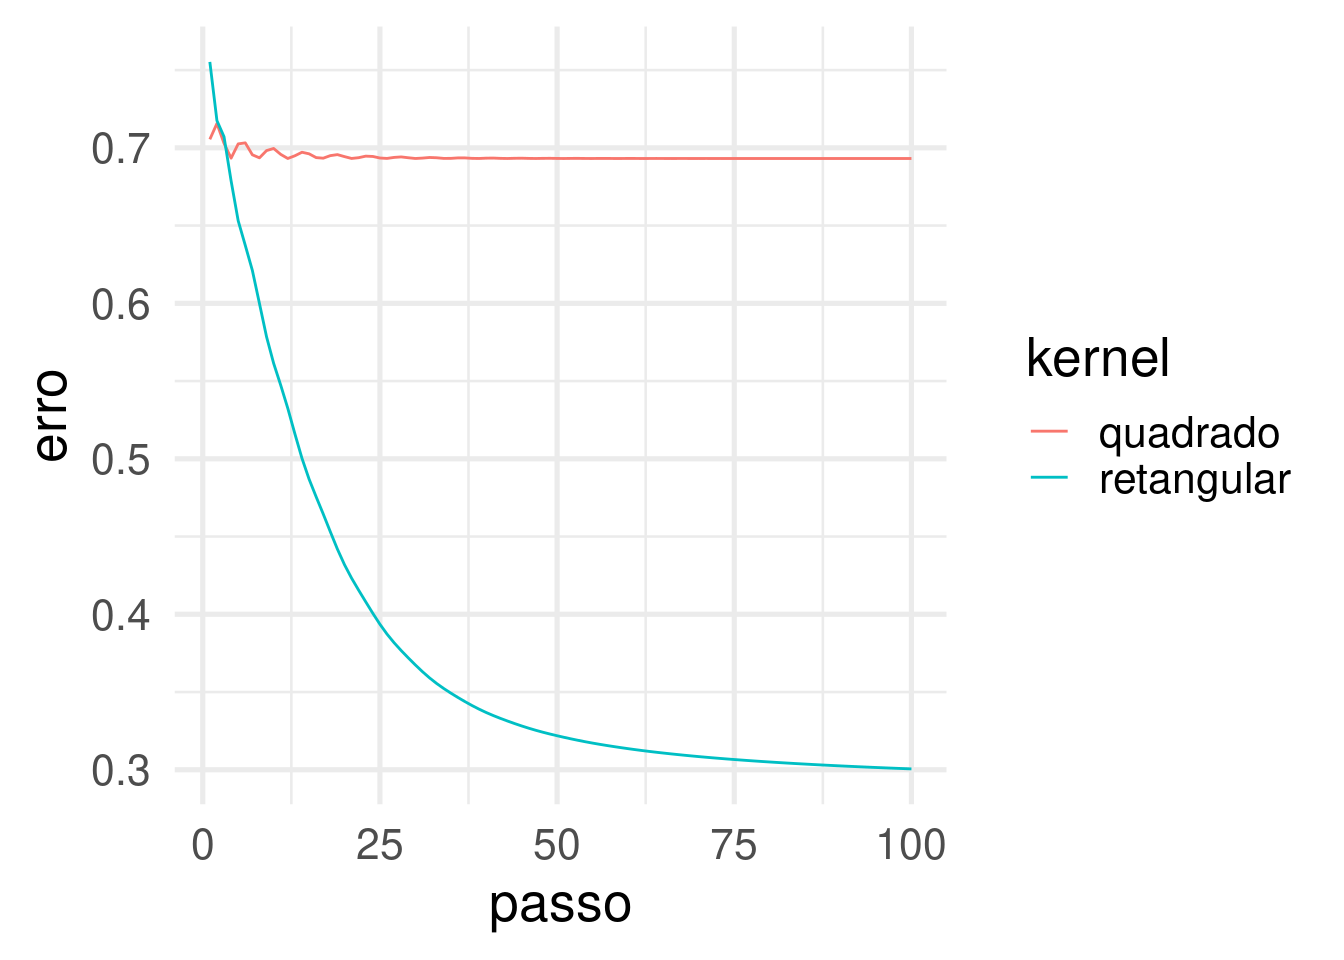
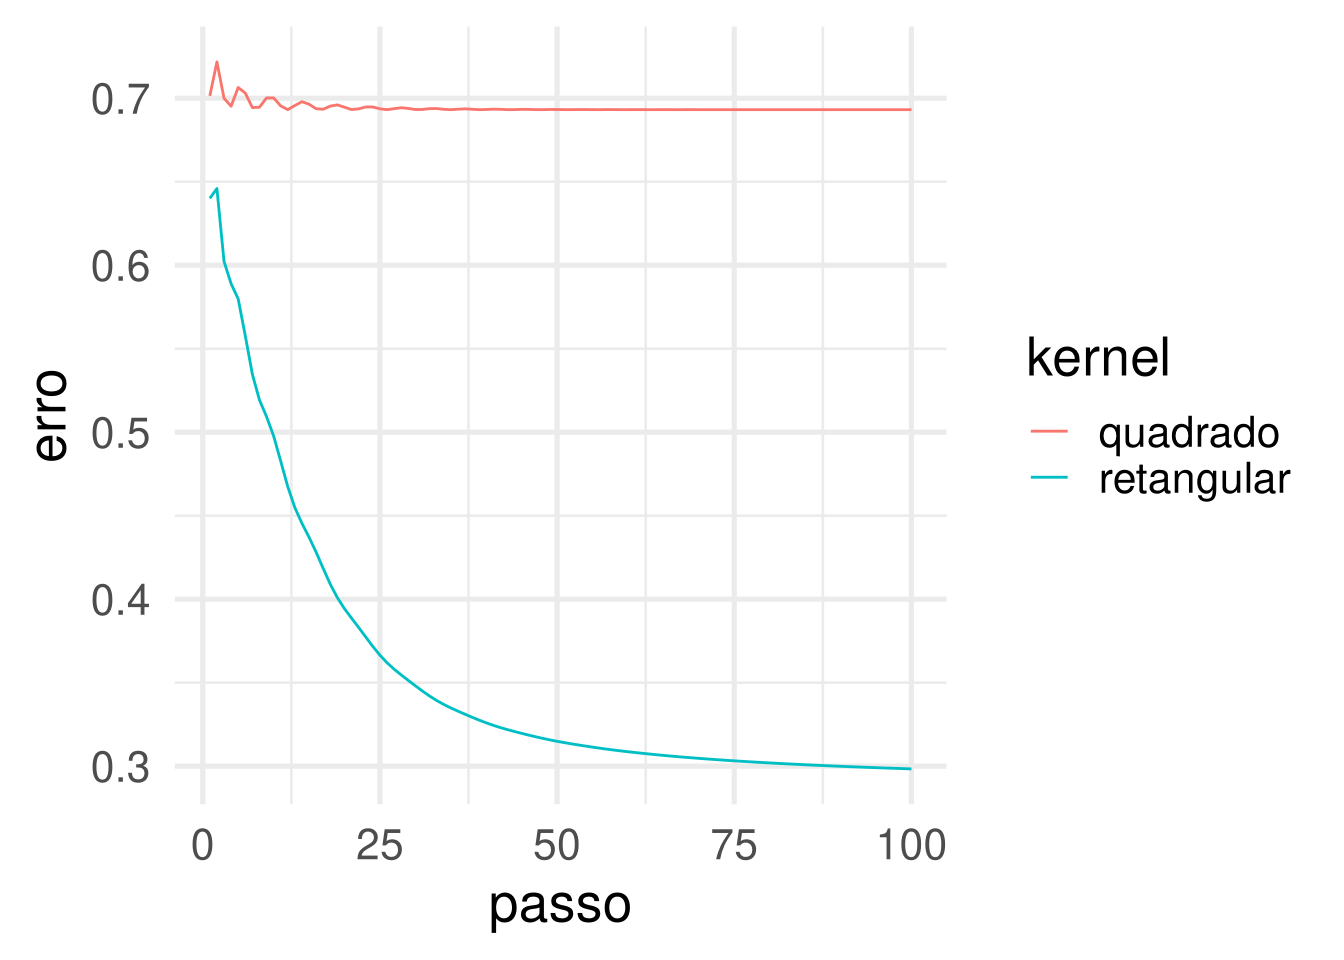
rerodando

diff --git a/content/blog/2020-12-30-retangulo-vs-quadrado.html b/content/blog/2020-12-30-retangulo-vs-quadrado.html
@@ -1,8 +1,21 @@
+---
+title: "CNNs: Kernel Quadrado versus Kernel Retangular"
+date: "2020-12-30"
+tags: ["torch", "deep learning", "r", "machine learning"]
+bibliography: bibliography.bib
+categories: ["tutoriais", "r"]
+banner: "img/banners/quadrado-vs-retangulo.png"
+author: ["Athos"]
+summary: "Em modelos de CNN é comum usar kernels quadrados. Mas a depender do problema, kernels retangulares podem ajudar. O post mostra um exemplo minimal em {torch} para ilustrar uma situação em que isso acontece."
+draft: false
+---
+
+<script src="/rmarkdown-libs/header-attrs/header-attrs.js"></script>
 
 
 <div id="exemplo-passarinho-versus-sapo" class="section level2">
 <h2>Exemplo: Passarinho versus Sapo</h2>
-<p>Em modelos de CNN é comum usar kernels quadrados. Mas a depender do problema, kernels com outros formatos podem ajudar como mostrado em <span class="citation">(Sun, Ozay, and Okatani 2016)</span>! Um exemplo é o kernel retangular quando se está mexendo com sons e seus respectivos espectrogramas. Para ilustar eu vou criar dois “espectrogramas” bem simples, assim:</p>
+<p>Em modelos de CNN é comum usar kernels quadrados. Mas a depender do problema, kernels com outros formatos podem ajudar como mostrado em <span class="citation">(<a href="#ref-inproceedings" role="doc-biblioref">Sun, Ozay, and Okatani 2016</a>)</span>! Um exemplo é o kernel retangular quando se está mexendo com sons e seus respectivos espectrogramas. Para ilustar eu vou criar dois “espectrogramas” bem simples, assim:</p>
 <pre class="r"><code>library(torch)
 library(tidyverse)
 library(mestrado)
@@ -43,7 +56,7 @@ x$unsqueeze_(2)
   theme_void(30) +
   labs(x = &quot;Tempo (ms)&quot;, y = &quot;Frequência (Hz)&quot;)</code></pre>
 <div class="figure"><span id="fig:unnamed-chunk-2"></span>
-<img src="2020-12-30-retangulo-vs-quadrado_files/figure-html/unnamed-chunk-2-1.png" alt="Espectrogramas para um sapo e um passarinho. Os animais fazem sons em diferentes faixas de frequência." width="672" />
+<img src="/blog/2020-12-30-retangulo-vs-quadrado_files/figure-html/unnamed-chunk-2-1.png" alt="Espectrogramas para um sapo e um passarinho. Os animais fazem sons em diferentes faixas de frequência." width="672" />
 <p class="caption">
 Figure 1: Espectrogramas para um sapo e um passarinho. Os animais fazem sons em diferentes faixas de frequência.
 </p>
@@ -58,20 +71,20 @@ Figure 1: Espectrogramas para um sapo e um passarinho. Os animais fazem sons em 
 conv_quadrada(x)
 ## torch_tensor
 ## (1,1,.,.) = 
-##  -0.5027 -0.7713 -0.8832 -1.0574
-##  -0.5600 -0.6553 -0.8317 -1.0574
-##  -1.0521 -1.3087 -1.2403 -1.0574
-##  -1.0574 -1.0574 -1.0574 -1.0574
-##  -1.0574 -1.0574 -1.0574 -1.0574
-##  -1.0574 -1.0574 -1.0574 -1.0574
+##   0.4738  0.4164  0.1471  0.3151
+##   0.4156  0.2543  0.0832  0.3151
+##  -0.2593 -0.1353  0.0961  0.3151
+##   0.3151  0.3151  0.3151  0.3151
+##   0.3151  0.3151  0.3151  0.3151
+##   0.3151  0.3151  0.3151  0.3151
 ## 
 ## (2,1,.,.) = 
-##  -1.0574 -1.0574 -1.0574 -1.0574
-##  -1.0574 -1.0574 -1.0574 -1.0574
-##  -1.0574 -1.0574 -1.0574 -1.0574
-##  -0.5027 -0.7713 -0.8832 -1.0574
-##  -0.5600 -0.6553 -0.8317 -1.0574
-##  -1.0521 -1.3087 -1.2403 -1.0574
+##   0.3151  0.3151  0.3151  0.3151
+##   0.3151  0.3151  0.3151  0.3151
+##   0.3151  0.3151  0.3151  0.3151
+##   0.4738  0.4164  0.1471  0.3151
+##   0.4156  0.2543  0.0832  0.3151
+##  -0.2593 -0.1353  0.0961  0.3151
 ## [ CPUFloatType{2,1,6,4} ]</code></pre>
 </div>
 <div id="cnn-retangular" class="section level4">
@@ -80,10 +93,10 @@ conv_quadrada(x)
 conv_retangular(x)
 ## torch_tensor
 ## (1,1,.,.) = 
-##  -0.6746 -0.6746 -0.6746 -0.4139 -0.4139 -0.4139
+##   0.1209  0.1209  0.1209 -0.0246 -0.0246 -0.0246
 ## 
 ## (2,1,.,.) = 
-##  -0.3025 -0.3025 -0.3025 -0.4139 -0.4139 -0.4139
+##  -0.3217 -0.3217 -0.3217 -0.0246 -0.0246 -0.0246
 ## [ CPUFloatType{2,1,1,6} ]</code></pre>
 <p>Comentário: A saída <code>1x6</code> pode ser vista como uma média ponderada das frequências em cada um dos 6 instantes de tempo. E essa ponderação é feita pelos 8 pesos do kernel. Intuitivamente, se algum peso der zero, quer dizer que aquela faixa de frequência não é boa para distinguir passarinho de sapo.</p>
 </div>
@@ -126,36 +139,36 @@ for(i in 1:100) {
   optim_quadrado$step()
   optim_retangulo$step()
 }</code></pre>
-<p><img src="2020-12-30-retangulo-vs-quadrado_files/figure-html/unnamed-chunk-6-1.png" width="672" /></p>
+<p><img src="/blog/2020-12-30-retangulo-vs-quadrado_files/figure-html/unnamed-chunk-6-1.png" width="672" /></p>
 <div id="pesos-finais" class="section level4">
 <h4>Pesos finais</h4>
 <pre class="r"><code># quadrado
 pesos_kernel_quadrado &lt;- conv_quadrada$parameters$weight$squeeze(1)$squeeze(1)
 pesos_kernel_quadrado
 ## torch_tensor
-##  0.3579  0.2233 -0.1470
-## -0.1289 -0.0706  0.0239
-## -0.0689  0.0025 -0.1698
+##  0.2186  0.2301  0.1065
+##  0.2218 -0.2280 -0.2166
+##  0.1474 -0.3397 -0.1016
 ## [ CPUFloatType{3,3} ]
 # retangular
 pesos_kernel_retangular &lt;- conv_retangular$parameters$weight$squeeze(1)$squeeze(1)
 pesos_kernel_retangular
 ## torch_tensor
-## -0.2458
-##  0.1261
-## -4.3165
-## -0.2081
-##  0.2781
-##  4.3999
-## -0.2322
-##  0.2100
+## -0.1140
+## -0.0196
+## -4.5321
+## -0.1436
+##  0.0710
+##  4.6646
+##  0.1555
+## -0.0643
 ## [ CPUFloatType{8,1} ]</code></pre>
 <p>É possível observar que:</p>
 <ol style="list-style-type: decimal">
 <li>No kernel quadrado os pesos estão com aspecto que aleatório.</li>
 <li>No kernel retangular os pesos em rosa estão relacionados com as duas frequências relativas ao passarinho e ao sapo.</li>
 </ol>
-<p><img src="2020-12-30-retangulo-vs-quadrado_files/figure-html/unnamed-chunk-8-1.png" width="672" /></p>
+<p><img src="/blog/2020-12-30-retangulo-vs-quadrado_files/figure-html/unnamed-chunk-8-1.png" width="672" /></p>
 </div>
 <div id="predições" class="section level4">
 <h4>Predições</h4>
@@ -169,8 +182,8 @@ conv_quadrada(x) %&gt;% nnf_sigmoid() %&gt;% torch_mean(dim = c(2,3,4))
 # retangular
 conv_retangular(x) %&gt;% nnf_sigmoid() %&gt;% torch_mean(dim = c(2,3,4))
 ## torch_tensor
-##  0.7413
-##  0.2608
+##  0.7438
+##  0.2595
 ## [ CPUFloatType{2} ]</code></pre>
 </div>
 </div>
@@ -185,9 +198,9 @@ conv_retangular(x) %&gt;% nnf_sigmoid() %&gt;% torch_mean(dim = c(2,3,4))
 </div>
 <div id="referências" class="section level2 unnumbered">
 <h2>Referências</h2>
-<div id="refs" class="references">
-<div id="ref-inproceedings">
-<p>Sun, Zhun, Mete Ozay, and Takayuki Okatani. 2016. “Design of Kernels in Convolutional Neural Networks for Image Classification.” In, 9911:51–66. <a href="https://doi.org/10.1007/978-3-319-46478-7_4">https://doi.org/10.1007/978-3-319-46478-7_4</a>.</p>
+<div id="refs" class="references csl-bib-body hanging-indent">
+<div id="ref-inproceedings" class="csl-entry">
+Sun, Zhun, Mete Ozay, and Takayuki Okatani. 2016. <span>“Design of Kernels in Convolutional Neural Networks for Image Classification.”</span> In, 9911:51–66. <a href="https://doi.org/10.1007/978-3-319-46478-7_4">https://doi.org/10.1007/978-3-319-46478-7_4</a>.
 </div>
 </div>
 </div>
